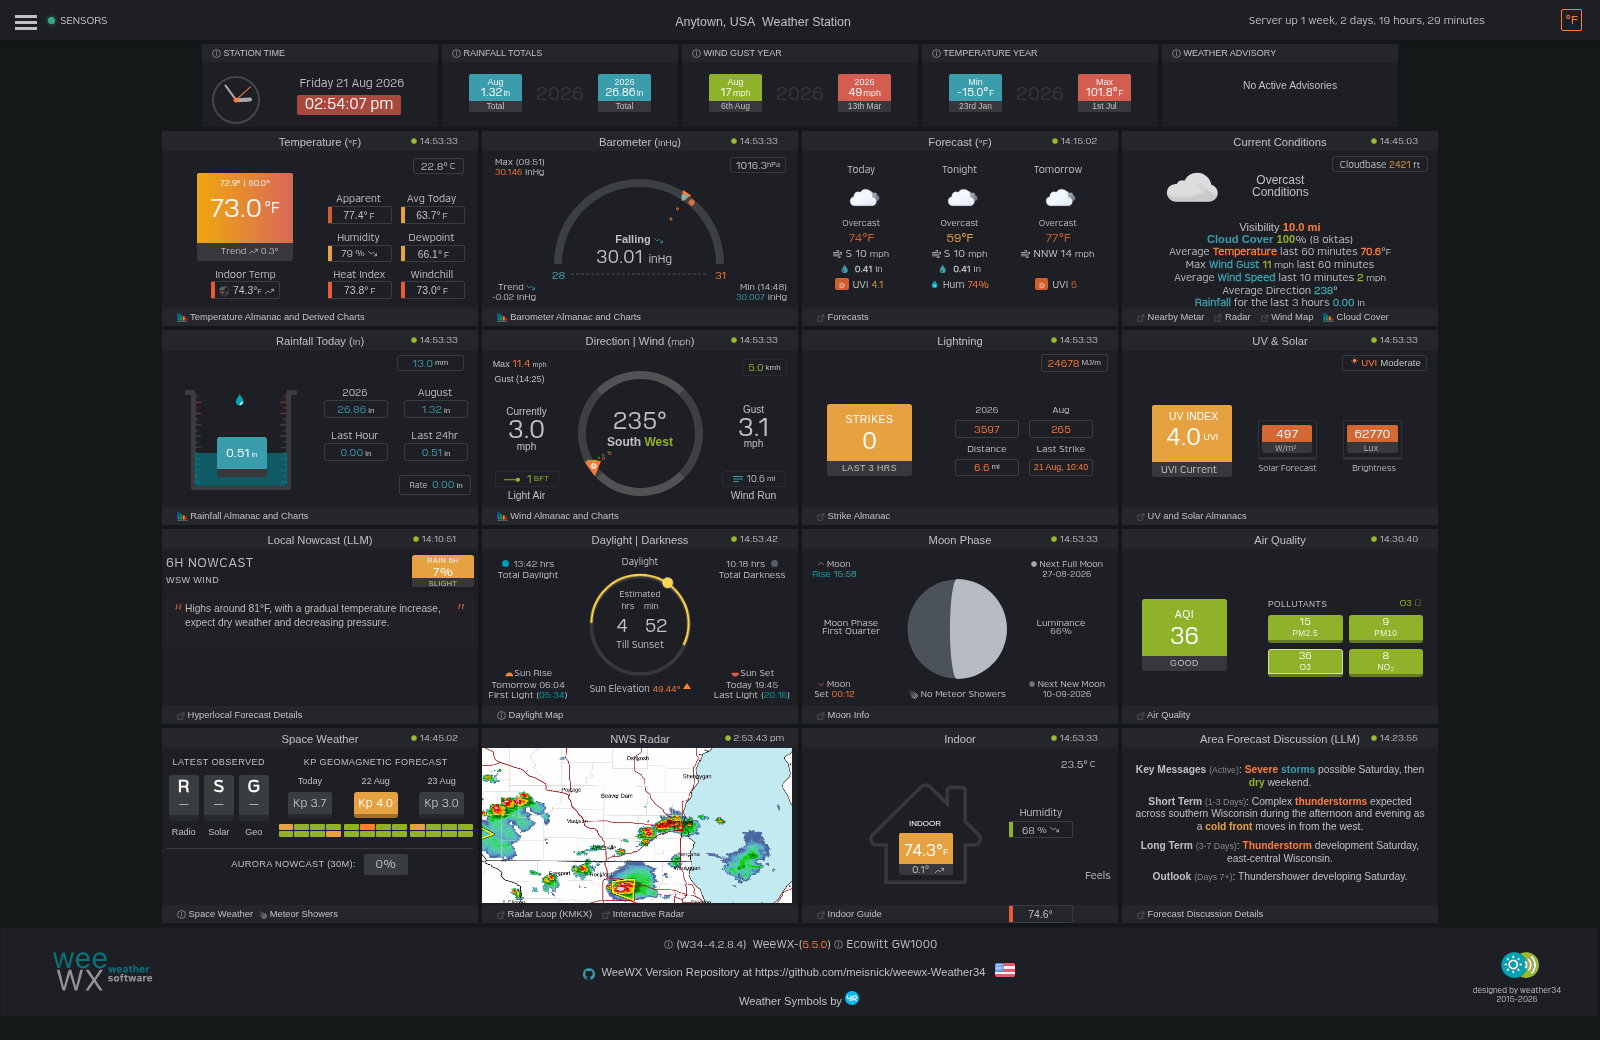
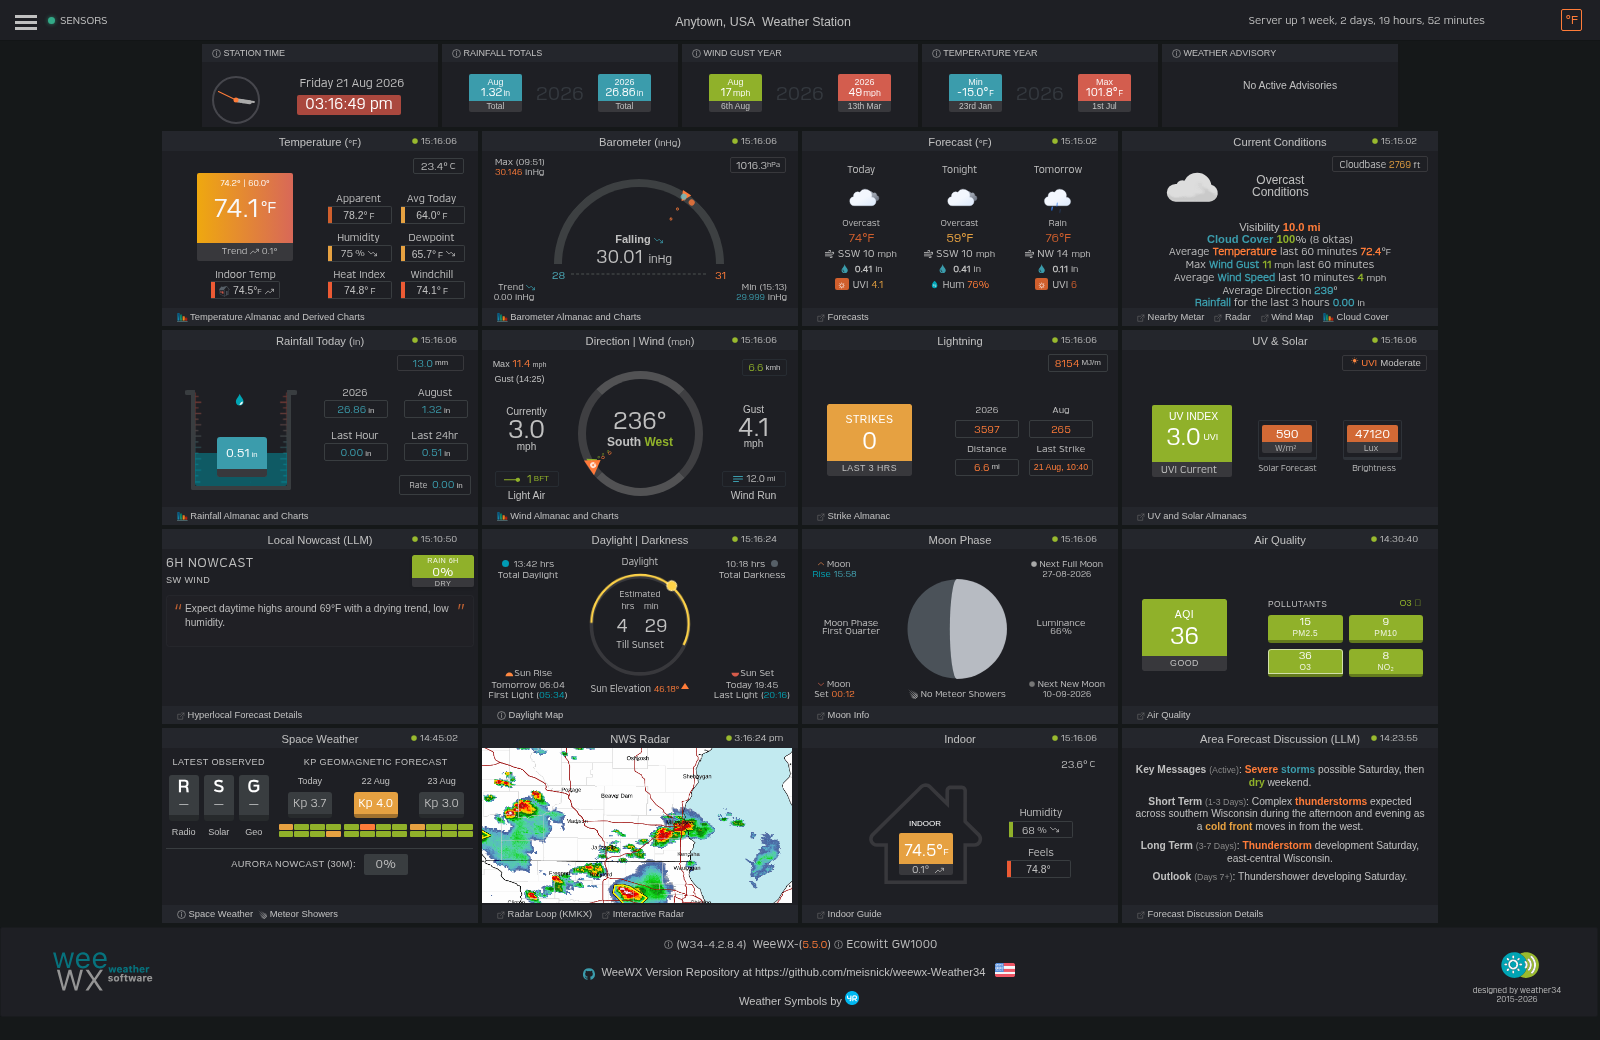
fix(indoor): nudge Feels pill +2px right, label 2px up; refresh hero screenshot
Fine-tune the indoor Feels block position and rebuild the CSS bundle. Update the
README hero screenshot (docs/screenshots/dashboard-dark.png, neutral "Anytown,
USA" station name) to reflect the corrected Indoor card.

diff --git a/css/modules/modules.bundle.css b/css/modules/modules.bundle.css
@@ -1,6 +1,6 @@
 /* ==========================================================================
    Weather34 CSS Modules Bundle (Production Artifact)
-   Generated: 2026-08-21 20:10:05 UTC
+   Generated: 2026-08-21 20:16:21 UTC
    Source count: 22
    Manifest:
      - [1/22] advisory.css
@@ -4401,8 +4401,8 @@ valuetextheading2 {
 /* position:relative stays !important (beats framework position:static !important); left/top
  * are NOT !important so a sandbox override (which carries !important) can move the pill. */
 .weather-item[data-module="indoortemperature.php"] .mod-temperature-block .tempmodulehome20-25c { position: relative !important; left: 0; top: 0; }
-.weather-item[data-module="indoortemperature.php"] .mod-temperature-block.mod-gauge-ring--7 { position: relative !important; left: 0 !important; top: 0 !important; }
-.weather-item[data-module="indoortemperature.php"] .mod-temperature-1x2 .mod-gauge-ring-content--indoor-feels valuetextheading1 { position: relative !important; left: -1px !important; top: 2px !important; }
+.weather-item[data-module="indoortemperature.php"] .mod-temperature-block.mod-gauge-ring--7 { position: relative !important; left: 2px !important; top: 0 !important; }
+.weather-item[data-module="indoortemperature.php"] .mod-temperature-1x2 .mod-gauge-ring-content--indoor-feels valuetextheading1 { position: relative !important; left: -3px !important; top: 0 !important; }
 
 /* ==== top-lightning.css ==== */
 /* top-lightning module -- scoped to .mod-top-lightning */

diff --git a/css/modules/temperature.css b/css/modules/temperature.css
@@ -482,5 +482,5 @@ valuetextheading2 {
 /* position:relative stays !important (beats framework position:static !important); left/top
  * are NOT !important so a sandbox override (which carries !important) can move the pill. */
 .weather-item[data-module="indoortemperature.php"] .mod-temperature-block .tempmodulehome20-25c { position: relative !important; left: 0; top: 0; }
-.weather-item[data-module="indoortemperature.php"] .mod-temperature-block.mod-gauge-ring--7 { position: relative !important; left: 0 !important; top: 0 !important; }
-.weather-item[data-module="indoortemperature.php"] .mod-temperature-1x2 .mod-gauge-ring-content--indoor-feels valuetextheading1 { position: relative !important; left: -1px !important; top: 2px !important; }
+.weather-item[data-module="indoortemperature.php"] .mod-temperature-block.mod-gauge-ring--7 { position: relative !important; left: 2px !important; top: 0 !important; }
+.weather-item[data-module="indoortemperature.php"] .mod-temperature-1x2 .mod-gauge-ring-content--indoor-feels valuetextheading1 { position: relative !important; left: -3px !important; top: 0 !important; }
